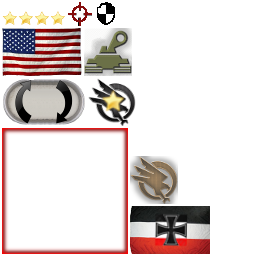
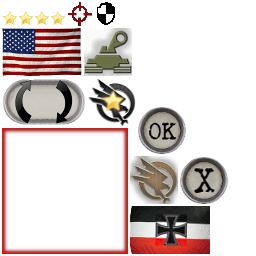
add hud ok.png and cancel.png

Changed region(s): [[0.6875, 0.5938, 0.9062, 0.8125], [0.5312, 0.4062, 0.75, 0.625]]

diff --git a/core/src/ch/asynk/rustanddust/game/hud/ActionButtons.java b/core/src/ch/asynk/rustanddust/game/hud/ActionButtons.java
@@ -49,8 +49,8 @@ public class ActionButtons extends Widget
 
 
         this.buttons = new Bg[Buttons.LAST.i];
-        this.buttons[Buttons.DONE.i] = new Bg(uiAtlas.findRegion("ok"));
-        this.buttons[Buttons.ABORT.i] = new Bg(uiAtlas.findRegion("cancel"));
+        this.buttons[Buttons.DONE.i] = new Bg(hudAtlas.findRegion("ok"));
+        this.buttons[Buttons.ABORT.i] = new Bg(hudAtlas.findRegion("cancel"));
         this.buttons[Buttons.PROMOTE.i] = new Bg(hudAtlas.findRegion("promote"));
 
         this.states = new StateType[Buttons.LAST.i];
